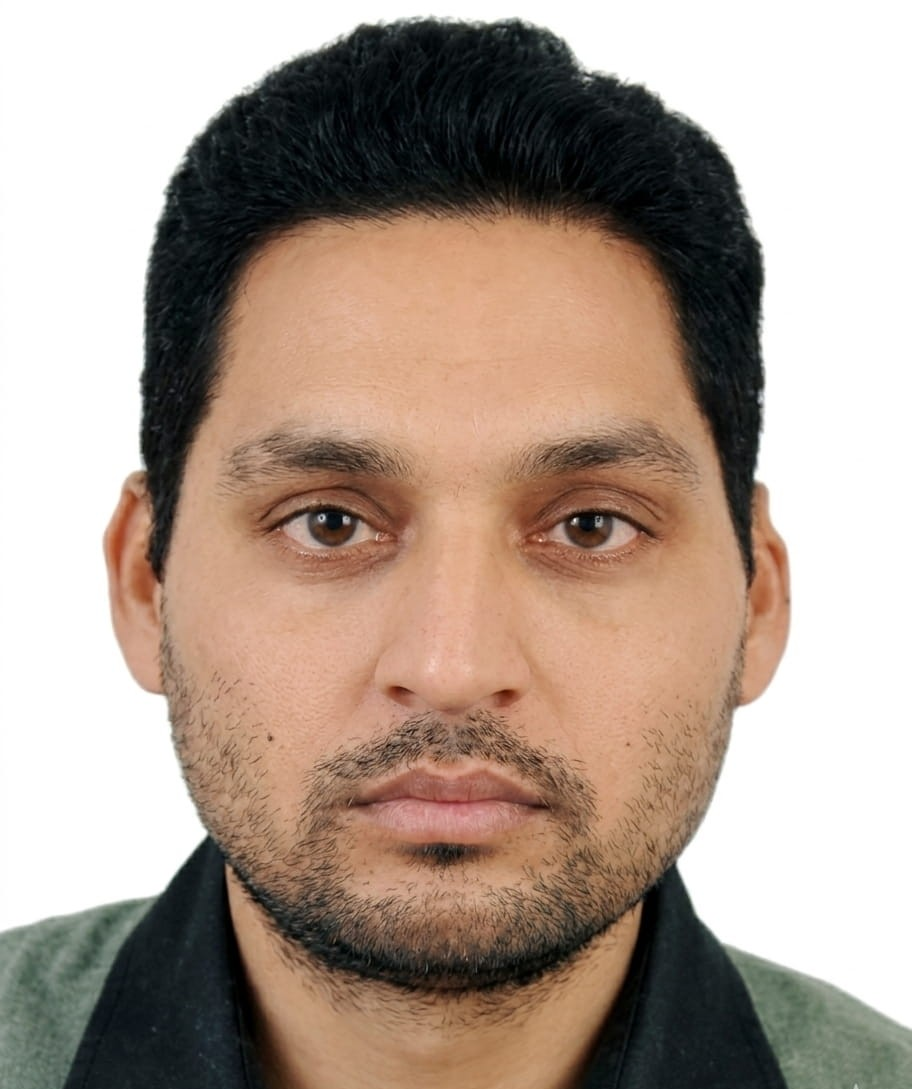
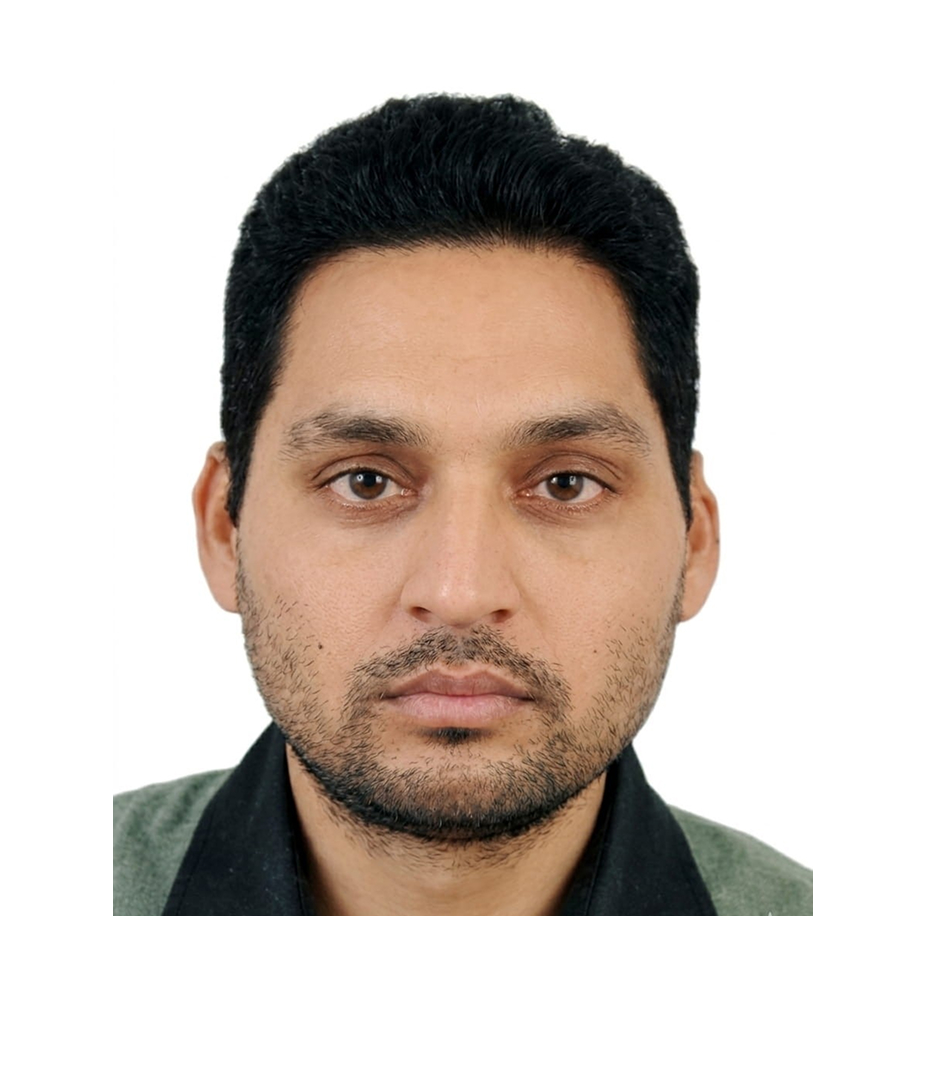
#Surojit

diff --git a/Content/CSS/style.css b/Content/CSS/style.css
@@ -5742,3 +5742,262 @@ table#sampleTable thead tr {
 		object-position: top center;
 		border: 0;
 	}
+
+
+
+
+
+/* Footer Main Container */
+.site-footer {
+	background-color: var(--dbim-primary-darkest); /* Deep teal green */
+	color: #ffffff;
+	padding: 35px 5%;
+	position: relative;
+	font-size: 14px;
+}
+
+.footer-container {
+	/*max-width: 1320px;*/
+	margin: 0 auto;
+	display: flex;
+	justify-content: space-between;
+	align-items: flex-start;
+	gap: 40px;
+}
+
+/* Headings */
+body .footer-heading {
+	color: var(--dbim-bg-page)!important;
+	font-weight: 700;
+	letter-spacing: 0.5px;
+	margin-bottom: 18px;
+	text-transform: uppercase;
+}
+
+/* Left Column */
+.footer-left {
+	flex: 1;
+}
+
+.links-grid {
+	list-style: none;
+	display: grid;
+	grid-template-columns: repeat(3, minmax(140px, 220px));
+	gap: 12px 24px;
+	margin-bottom: 24px;
+}
+
+	.links-grid a {
+		color: #e6f0ee;
+		text-decoration: none;
+		display: inline-flex;
+		align-items: center;
+		transition: color 0.2s ease, transform 0.2s ease;
+	}
+
+		.links-grid a:hover {
+			color: #ffffff;
+			transform: translateX(3px);
+		}
+
+.chevron {
+	margin-right: 8px;
+	font-size: 16px;
+	line-height: 1;
+}
+
+body .ownership-text {
+	color: var(--dbim-bg-page)!important;
+	line-height: 1.5;
+	max-width: 600px;
+}
+
+/* Right Column */
+.footer-right {
+	display: flex;
+	flex-direction: column;
+	align-items: flex-end;
+	text-align: right;
+}
+
+/* Social Icons */
+.social-icons {
+	display: flex;
+	gap: 16px;
+	margin-bottom: 22px;
+}
+
+	.social-icons a {
+		color: #ffffff;
+		font-size: 18px;
+		text-decoration: none;
+		transition: opacity 0.2s ease;
+	}
+
+		.social-icons a:hover {
+			opacity: 0.75;
+		}
+
+/* Portal Badges (Styled replicas of MyGov & India.gov.in) */
+.gov-badges {
+	display: flex;
+	gap: 10px;
+	margin-bottom: 18px;
+}
+
+.badge-box {
+	background-color: #ffffff;
+	color: #222222;
+	text-decoration: none;
+	padding: 6px 12px;
+	border-radius: 3px;
+	display: flex;
+	flex-direction: column;
+	justify-content: center;
+	align-items: center;
+	min-width: 105px;
+	height: 42px;
+	box-shadow: 0 2px 4px rgba(0, 0, 0, 0.15);
+}
+
+.mygov {
+	flex-direction: row;
+	gap: 4px;
+	font-weight: 800;
+	font-size: 14px;
+}
+
+	.mygov .my {
+		color: #e65100;
+	}
+
+	.mygov .gov {
+		color: #1b5e20;
+	}
+
+	.mygov .hindi-sub {
+		font-size: 8px;
+		color: #555;
+		font-weight: 600;
+	}
+
+.indiagov .india-text {
+	font-weight: 700;
+	font-size: 13px;
+	color: #1a237e;
+}
+
+.indiagov .sub-text {
+	font-size: 7px;
+	color: #555;
+}
+
+body .last-updated {
+	font-size: 12px;
+	color: var(--dbim-bg-page)!important;
+}
+
+/* Floating Scroll-to-Top Button */
+.scroll-top {
+	position: absolute;
+	right: 24px;
+	bottom: 62px;
+	width: 38px;
+	height: 38px;
+	background-color: #113c34;
+	color: #ffffff;
+	border-radius: 50%;
+	display: flex;
+	align-items: center;
+	justify-content: center;
+	text-decoration: none;
+	box-shadow: 0 2px 6px rgba(0, 0, 0, 0.3);
+	transition: background-color 0.2s ease;
+}
+
+	.scroll-top:hover {
+		background-color: #0b2923;
+	}
+
+/* Responsive Breakpoints */
+@media (max-width: 900px) {
+	.links-grid {
+		grid-template-columns: repeat(2, 1fr);
+	}
+}
+
+@media (max-width: 768px) {
+	.footer-container {
+		flex-direction: column;
+		align-items: flex-start;
+	}
+
+	.footer-right {
+		align-items: flex-start;
+		text-align: left;
+	}
+
+	.scroll-top {
+		bottom: 20px;
+		right: 20px;
+	}
+}
+
+@media (max-width: 480px) {
+	.links-grid {
+		grid-template-columns: 1fr;
+	}
+
+	.gov-badges {
+		flex-wrap: wrap;
+	}
+}
+
+
+
+
+
+
+
+
+
+
+
+
+
+
+
+
+
+
+
+
+
+
+
+
+
+
+
+
+
+
+
+
+
+
+
+
+
+
+
+
+
+
+
+
+
+
+
+
+
